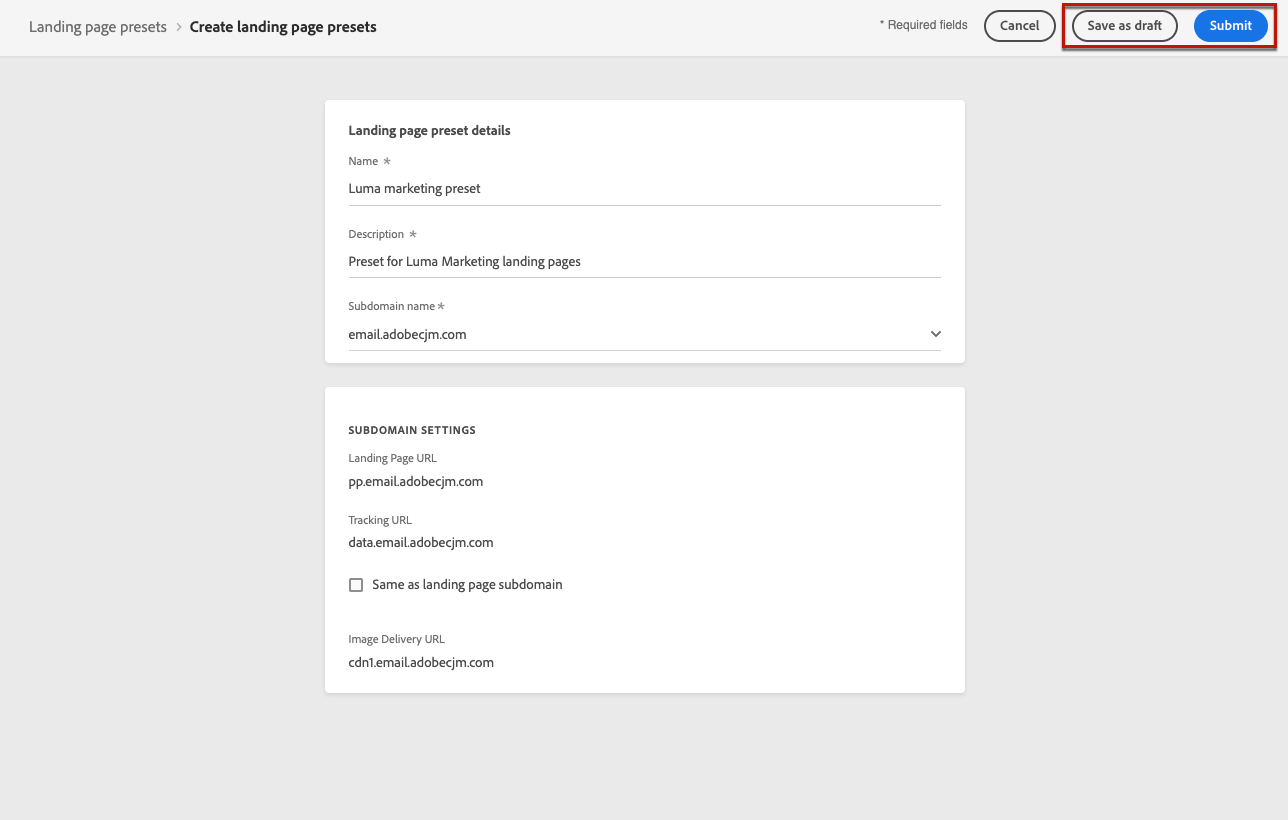
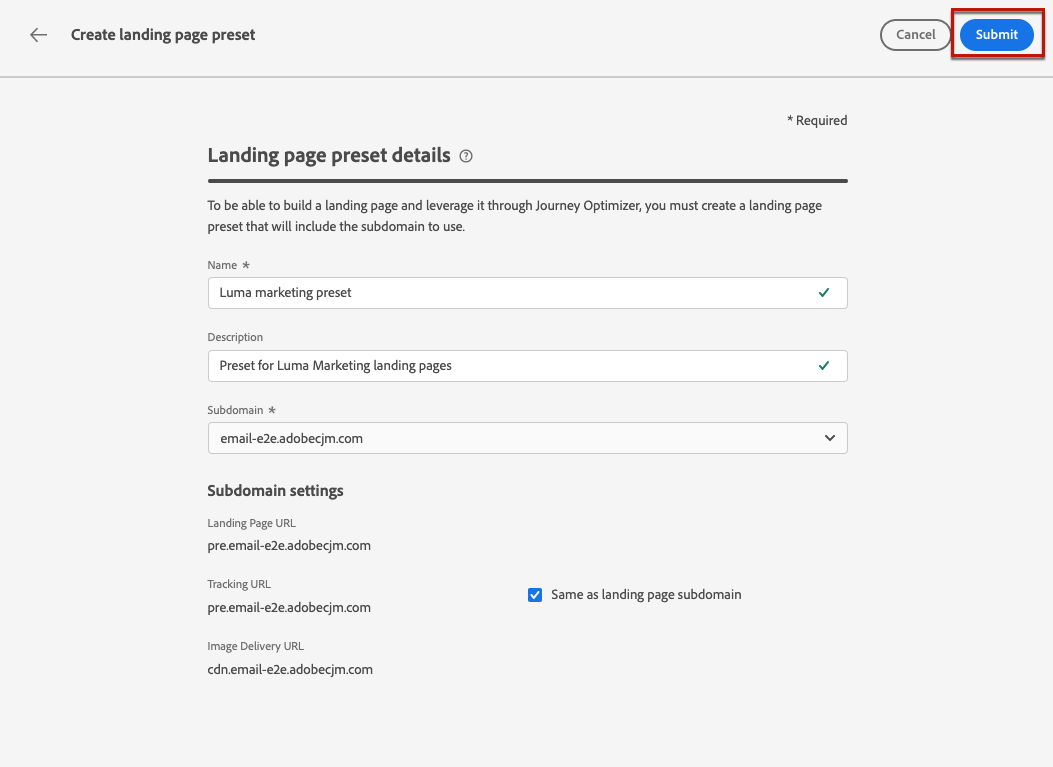
LP preset screen updates

diff --git a/help/using/configuration/lp-presets.md b/help/using/configuration/lp-presets.md
@@ -64,9 +64,9 @@ To create a landing page preset, follow the steps below.
 
     For example, if the landing page URL is 'pages.mail.luma.com', and the tracking URL is 'data.mail.luma.com', you can choose 'pages.mail.luma.com' to be used as the tracking subdomain.
 
-1. Click **[!UICONTROL Submit]** to confirm the landing page preset creation. You can also save the preset as draft and resume its configuration later on.
+1. Click **[!UICONTROL Submit]** to confirm the landing page preset creation. <!--You can also save the preset as draft and resume its configuration later on.-->
 
-   ![](assets/lp_preset-subdomain-settings-submit.png)
+   <!--![](assets/lp_preset-subdomain-settings-submit.png)-->
 
 1. Once the landing page preset has been created, it displays in the list with the **[!UICONTROL Active]** status. It is ready to be used for your landing pages.
 
